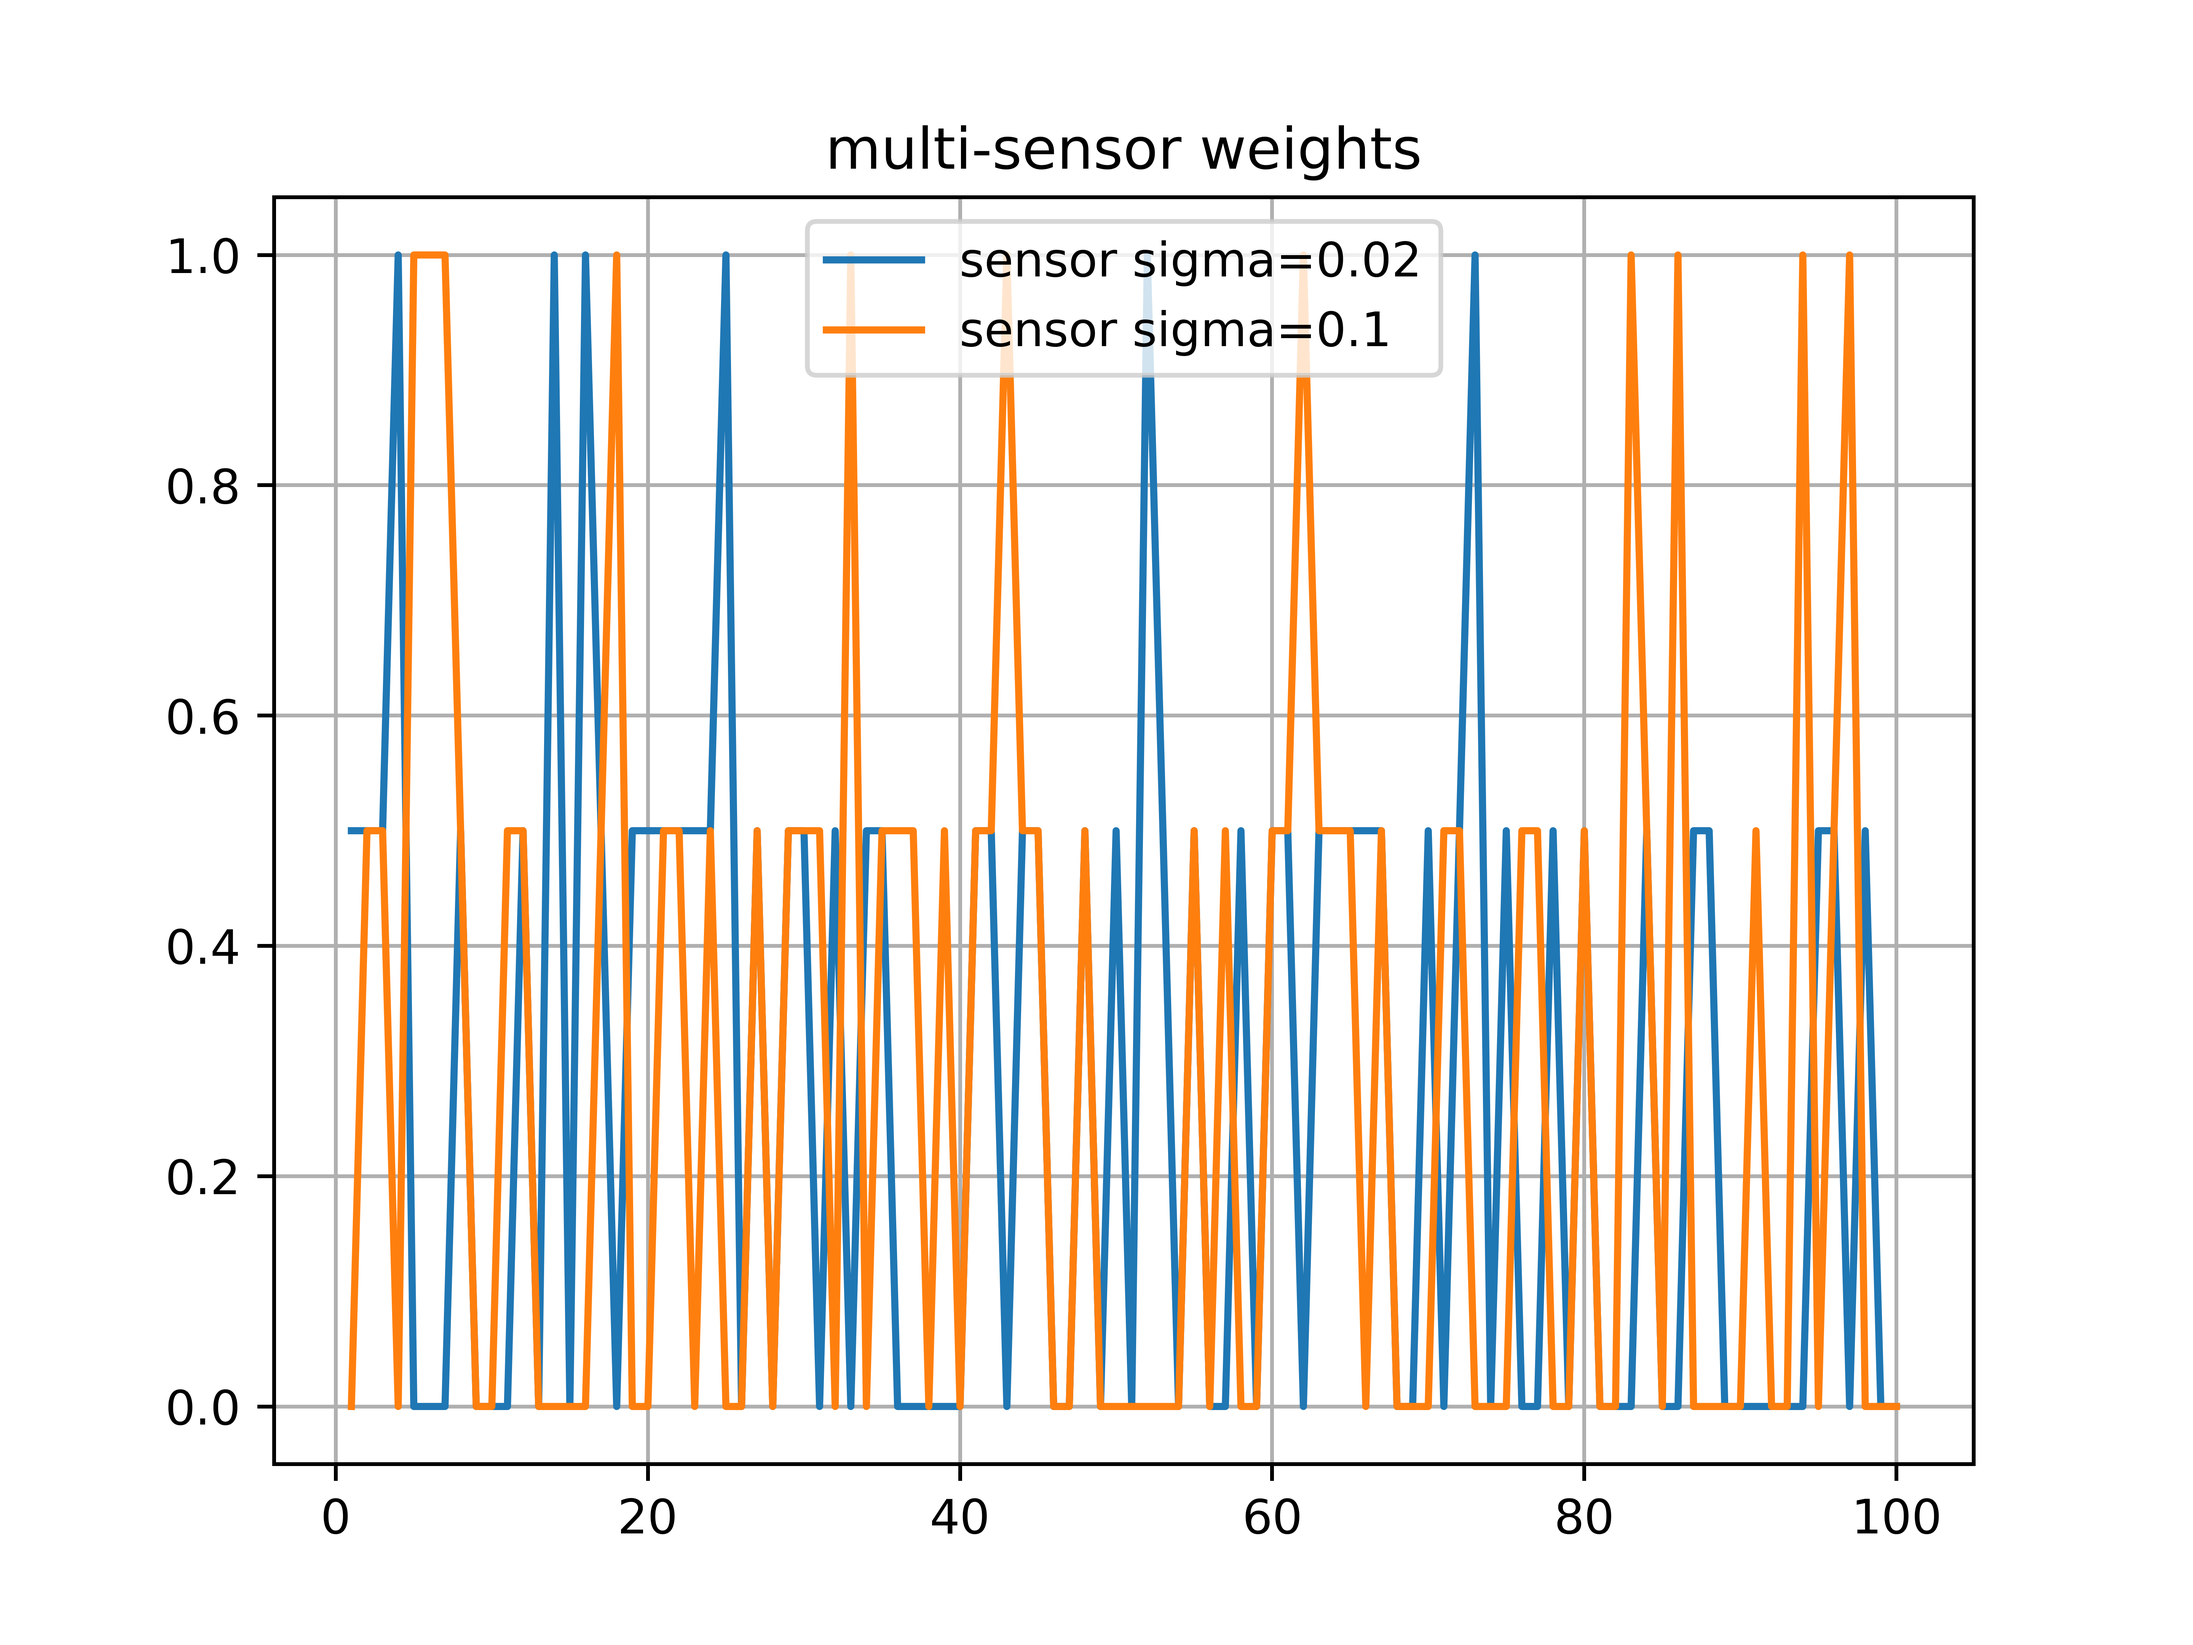
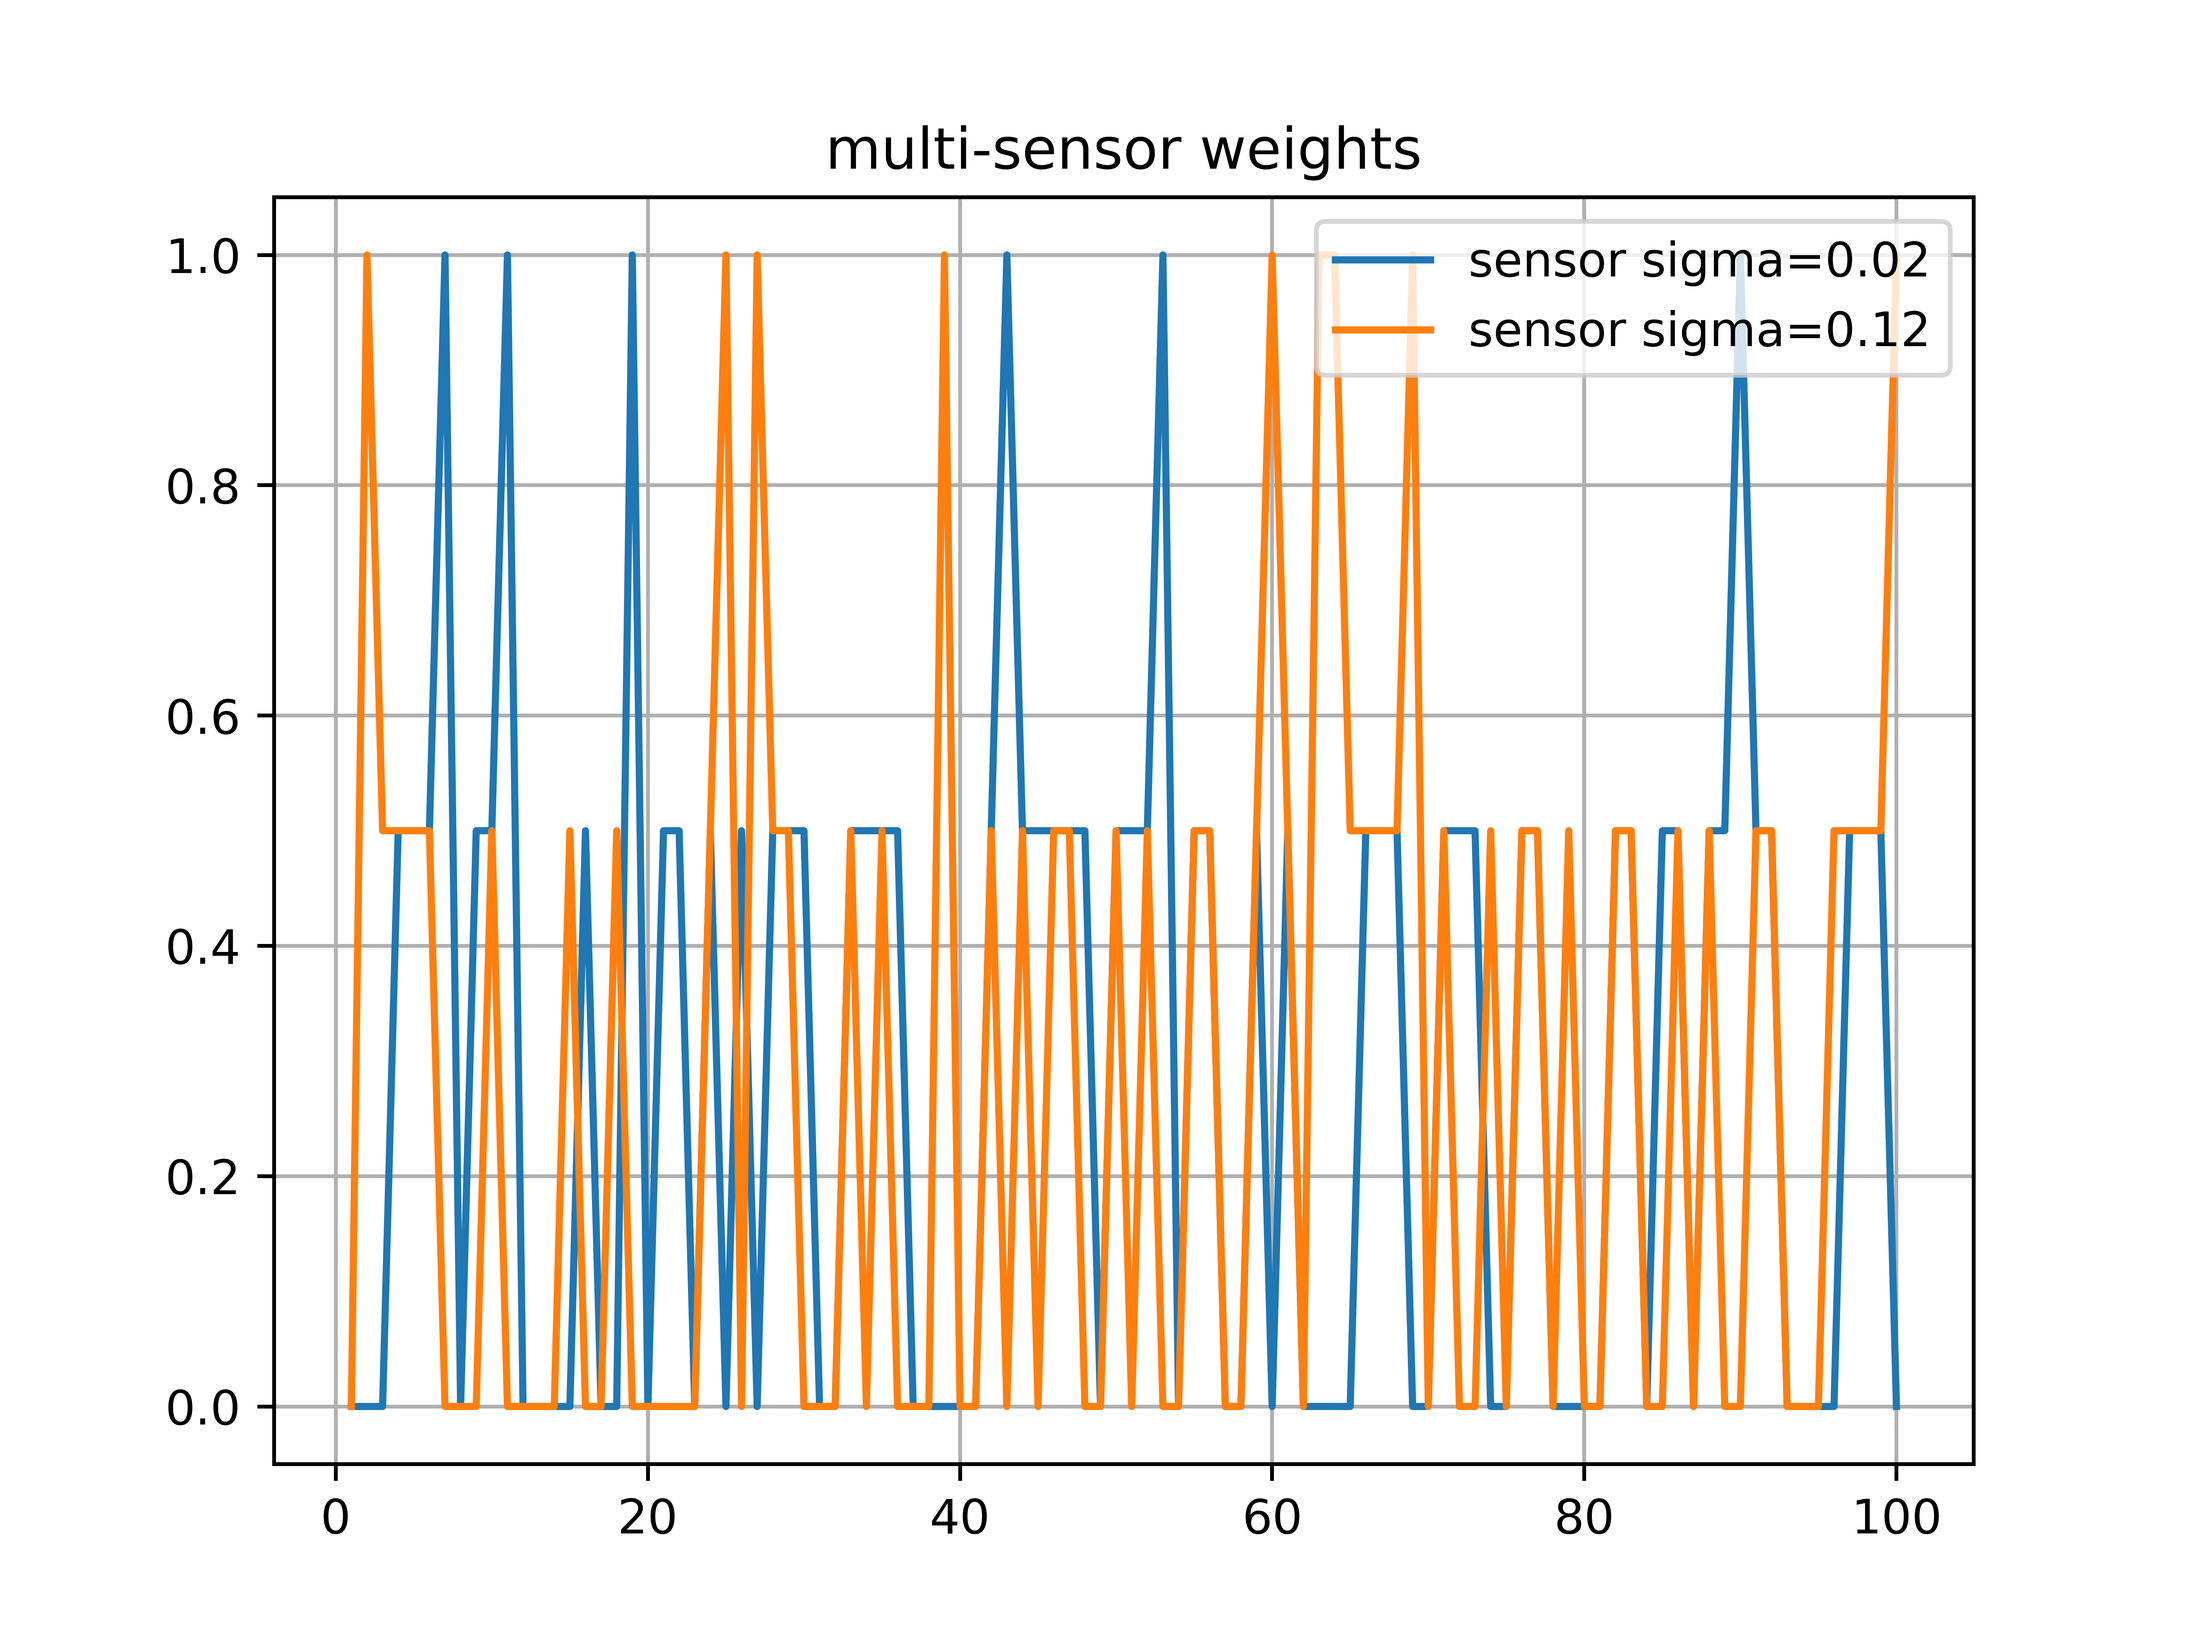
自适应加权数据融合算法

Changed region(s): [[0.1562, 0.125, 0.9062, 0.875]]

diff --git a/learning/adaptive_weight/adaptive_weight.py b/learning/adaptive_weight/adaptive_weight.py
@@ -2,7 +2,7 @@ import numpy as np
 import matplotlib.pyplot as plt
 
 iterations = 100
-sigma = np.array([0.02, 0.1, 0.6, 0.44])
+sigma = np.array([0.02, 0.12, 0.6, 0.44])
 sensor_num = 3
 mu = 10
 weight = np.zeros(sensor_num)
@@ -40,7 +40,7 @@ for k in range(1, iterations + 1):
 x = np.linspace(1, iterations, iterations, dtype=int)
 plt.title('multi-sensor fusion')
 plt.plot(x, res, label='adaptive weighted')
-plt.plot(x, avg_res, label='avg')
+plt.plot(x, avg_res, label='average')
 plt.legend()
 plt.grid()
 plt.savefig("融合值.png", dpi=900, bbox_inches='tight')
